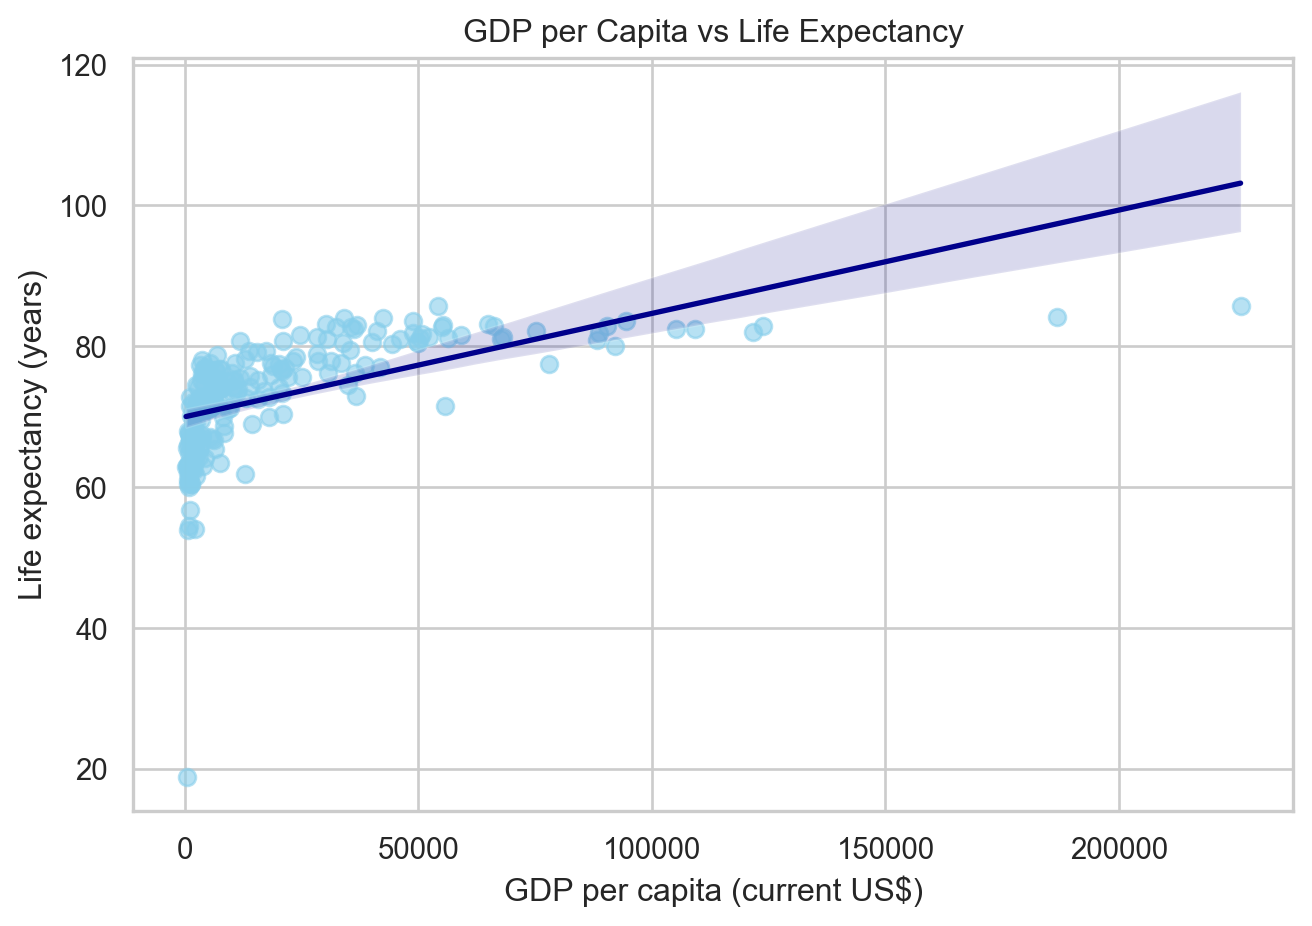
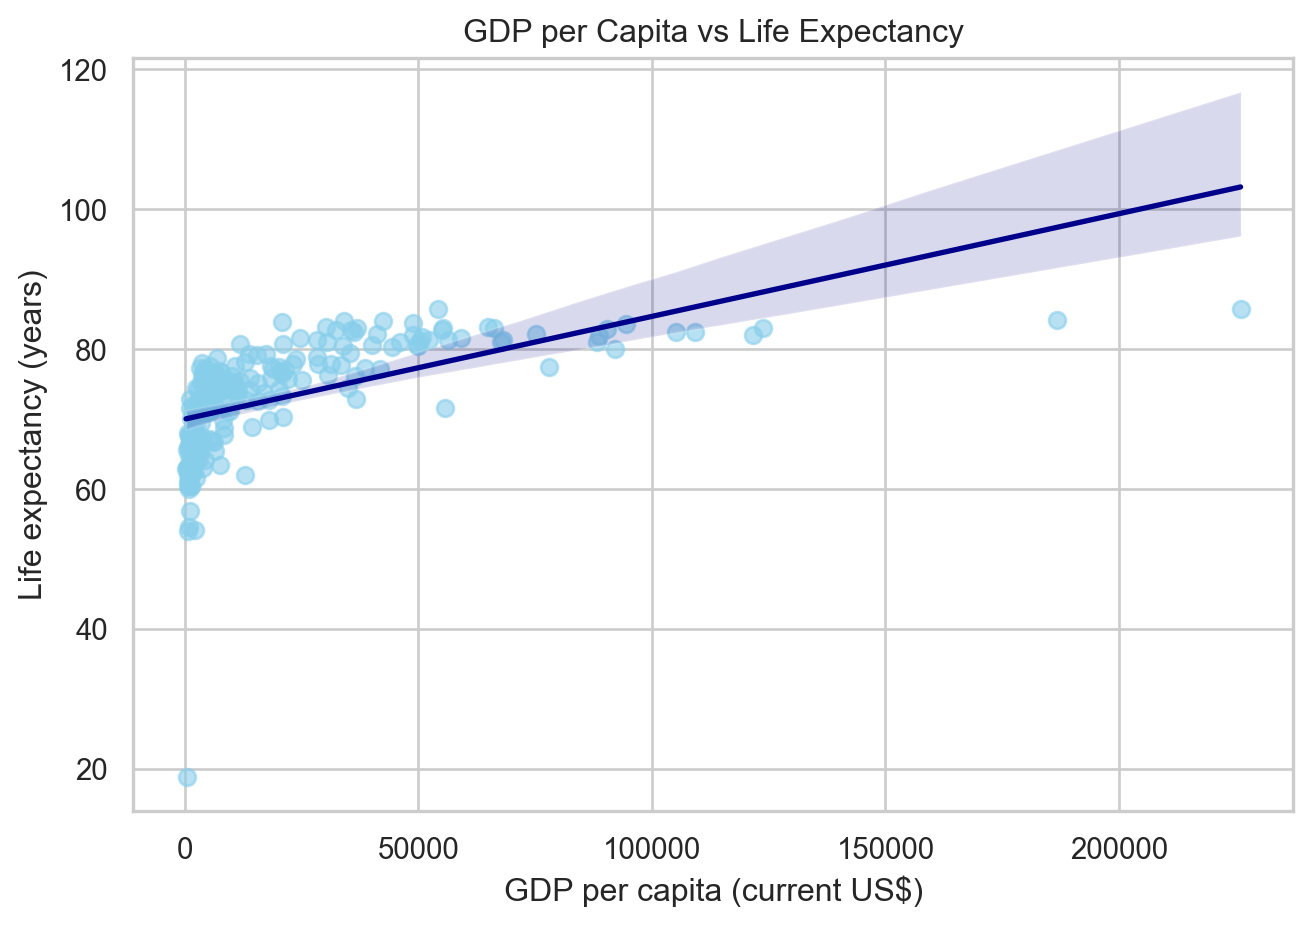
format

Changed region(s): [[0.0625, 0.2721, 1.0, 0.5443], [0.0312, 0.1814, 1.0, 0.3024], [0.0312, 0.0605, 1.0, 0.0907]]

diff --git a/presentation.html b/presentation.html
@@ -194,7 +194,7 @@ Laura Zang
 Table&nbsp;1
 </figcaption>
 <div aria-describedby="tbl-summary-stats-caption-0ceaefa1-69ba-4598-a22c-09a6ac19f8ca">
-<div class="cell-output cell-output-display" data-execution_count="23">
+<div class="cell-output cell-output-display" data-execution_count="37">
 <div>
 <style scoped="">
     .dataframe tbody tr th:only-of-type {
@@ -290,7 +290,7 @@ Table&nbsp;1
 Table&nbsp;2
 </figcaption>
 <div aria-describedby="tbl-correlations-caption-0ceaefa1-69ba-4598-a22c-09a6ac19f8ca">
-<div class="cell-output cell-output-display" data-execution_count="24">
+<div class="cell-output cell-output-display" data-execution_count="38">
 <div>
 <style scoped="">
     .dataframe tbody tr th:only-of-type {
@@ -349,7 +349,7 @@ Table&nbsp;2
 <h2>Pairwise Relationships</h2>
 <p>GDP per capita is strongly and positively associated with life expectancy, while both indicators display only weak relationships with health expenditure as a share of GDP.</p>
 <p>The distributions along the diagonal highlight that income is highly skewed, whereas life expectancy and health spending are more evenly distributed across countries.</p>
-<div id="cell-fig-pairwise" class="cell" data-execution_count="4">
+<div id="cell-fig-pairwise" class="cell" data-fig-height="5" data-fig-width="5" data-execution_count="4">
 <div class="cell-output cell-output-display">
 <div id="fig-pairwise" class="quarto-float quarto-figure quarto-figure-center">
 <figure class="quarto-float quarto-float-fig">
@@ -426,37 +426,37 @@ Figure&nbsp;3: Clusters of countries based on health expenditure (% of GDP) and 
 Table&nbsp;3: Comparison of the United States with global and high-income averages. Source: World Bank WDI (2023).
 </figcaption>
 <div aria-describedby="tbl-usa-comparison-caption-0ceaefa1-69ba-4598-a22c-09a6ac19f8ca">
-<div class="cell-output cell-output-display" data-execution_count="28">
+<div class="cell-output cell-output-display" data-execution_count="42">
 <style type="text/css">
 </style>
 
-<table id="T_2e292" class="do-not-create-environment cell caption-top">
+<table id="T_0aa39" class="do-not-create-environment cell caption-top">
 <thead>
 <tr class="header">
-<th id="T_2e292_level0_col0" class="col_heading level0 col0" data-quarto-table-cell-role="th">Indicator</th>
-<th id="T_2e292_level0_col1" class="col_heading level0 col1" data-quarto-table-cell-role="th">United States</th>
-<th id="T_2e292_level0_col2" class="col_heading level0 col2" data-quarto-table-cell-role="th">High-income avg</th>
-<th id="T_2e292_level0_col3" class="col_heading level0 col3" data-quarto-table-cell-role="th">Global avg</th>
+<th id="T_0aa39_level0_col0" class="col_heading level0 col0" data-quarto-table-cell-role="th">Indicator</th>
+<th id="T_0aa39_level0_col1" class="col_heading level0 col1" data-quarto-table-cell-role="th">United States</th>
+<th id="T_0aa39_level0_col2" class="col_heading level0 col2" data-quarto-table-cell-role="th">High-income avg</th>
+<th id="T_0aa39_level0_col3" class="col_heading level0 col3" data-quarto-table-cell-role="th">Global avg</th>
 </tr>
 </thead>
 <tbody>
 <tr class="odd">
-<td id="T_2e292_row0_col0" class="data row0 col0">GDP per capita (US$)</td>
-<td id="T_2e292_row0_col1" class="data row0 col1">77,860.91</td>
-<td id="T_2e292_row0_col2" class="data row0 col2">69255.110000</td>
-<td id="T_2e292_row0_col3" class="data row0 col3">21,076.94</td>
+<td id="T_0aa39_row0_col0" class="data row0 col0">GDP per capita (US$)</td>
+<td id="T_0aa39_row0_col1" class="data row0 col1">77,860.91</td>
+<td id="T_0aa39_row0_col2" class="data row0 col2">69255.110000</td>
+<td id="T_0aa39_row0_col3" class="data row0 col3">21,076.94</td>
 </tr>
 <tr class="even">
-<td id="T_2e292_row1_col0" class="data row1 col0">Life expectancy (years)</td>
-<td id="T_2e292_row1_col1" class="data row1 col1">77.43</td>
-<td id="T_2e292_row1_col2" class="data row1 col2">81.280000</td>
-<td id="T_2e292_row1_col3" class="data row1 col3">73.11</td>
+<td id="T_0aa39_row1_col0" class="data row1 col0">Life expectancy (years)</td>
+<td id="T_0aa39_row1_col1" class="data row1 col1">77.43</td>
+<td id="T_0aa39_row1_col2" class="data row1 col2">81.280000</td>
+<td id="T_0aa39_row1_col3" class="data row1 col3">73.11</td>
 </tr>
 <tr class="odd">
-<td id="T_2e292_row2_col0" class="data row2 col0">Health expenditure (% of GDP)</td>
-<td id="T_2e292_row2_col1" class="data row2 col1">16.50</td>
-<td id="T_2e292_row2_col2" class="data row2 col2">8.410000</td>
-<td id="T_2e292_row2_col3" class="data row2 col3">6.88</td>
+<td id="T_0aa39_row2_col0" class="data row2 col0">Health expenditure (% of GDP)</td>
+<td id="T_0aa39_row2_col1" class="data row2 col1">16.50</td>
+<td id="T_0aa39_row2_col2" class="data row2 col2">8.410000</td>
+<td id="T_0aa39_row2_col3" class="data row2 col3">6.88</td>
 </tr>
 </tbody>
 </table>
